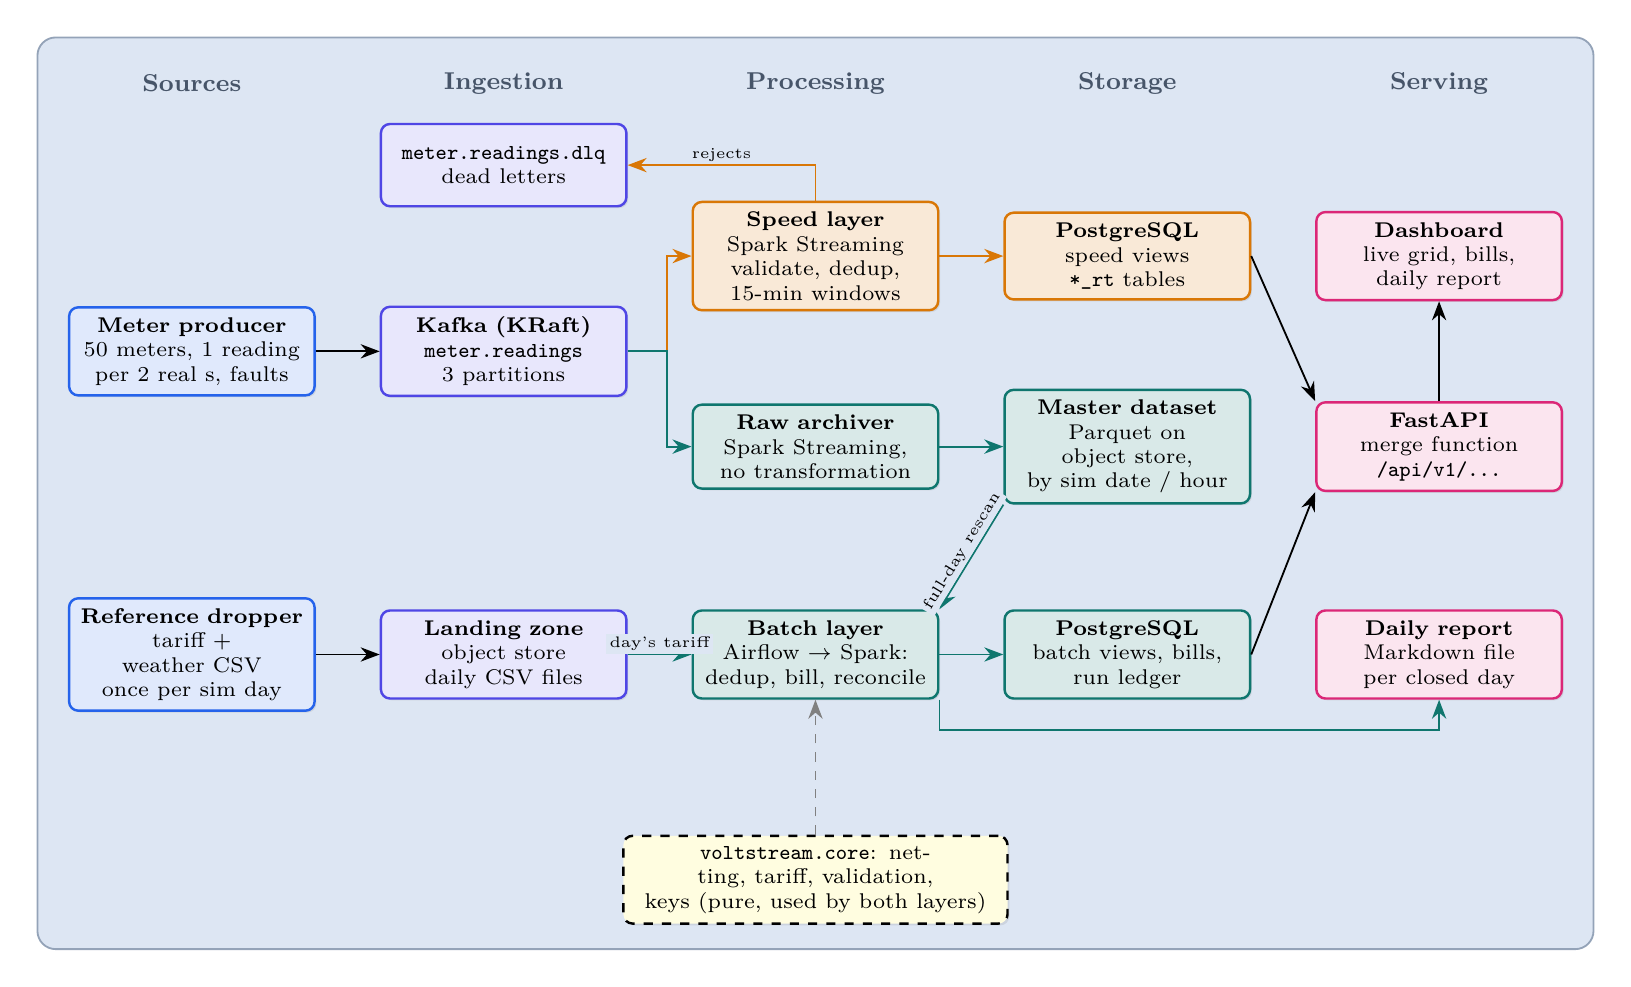
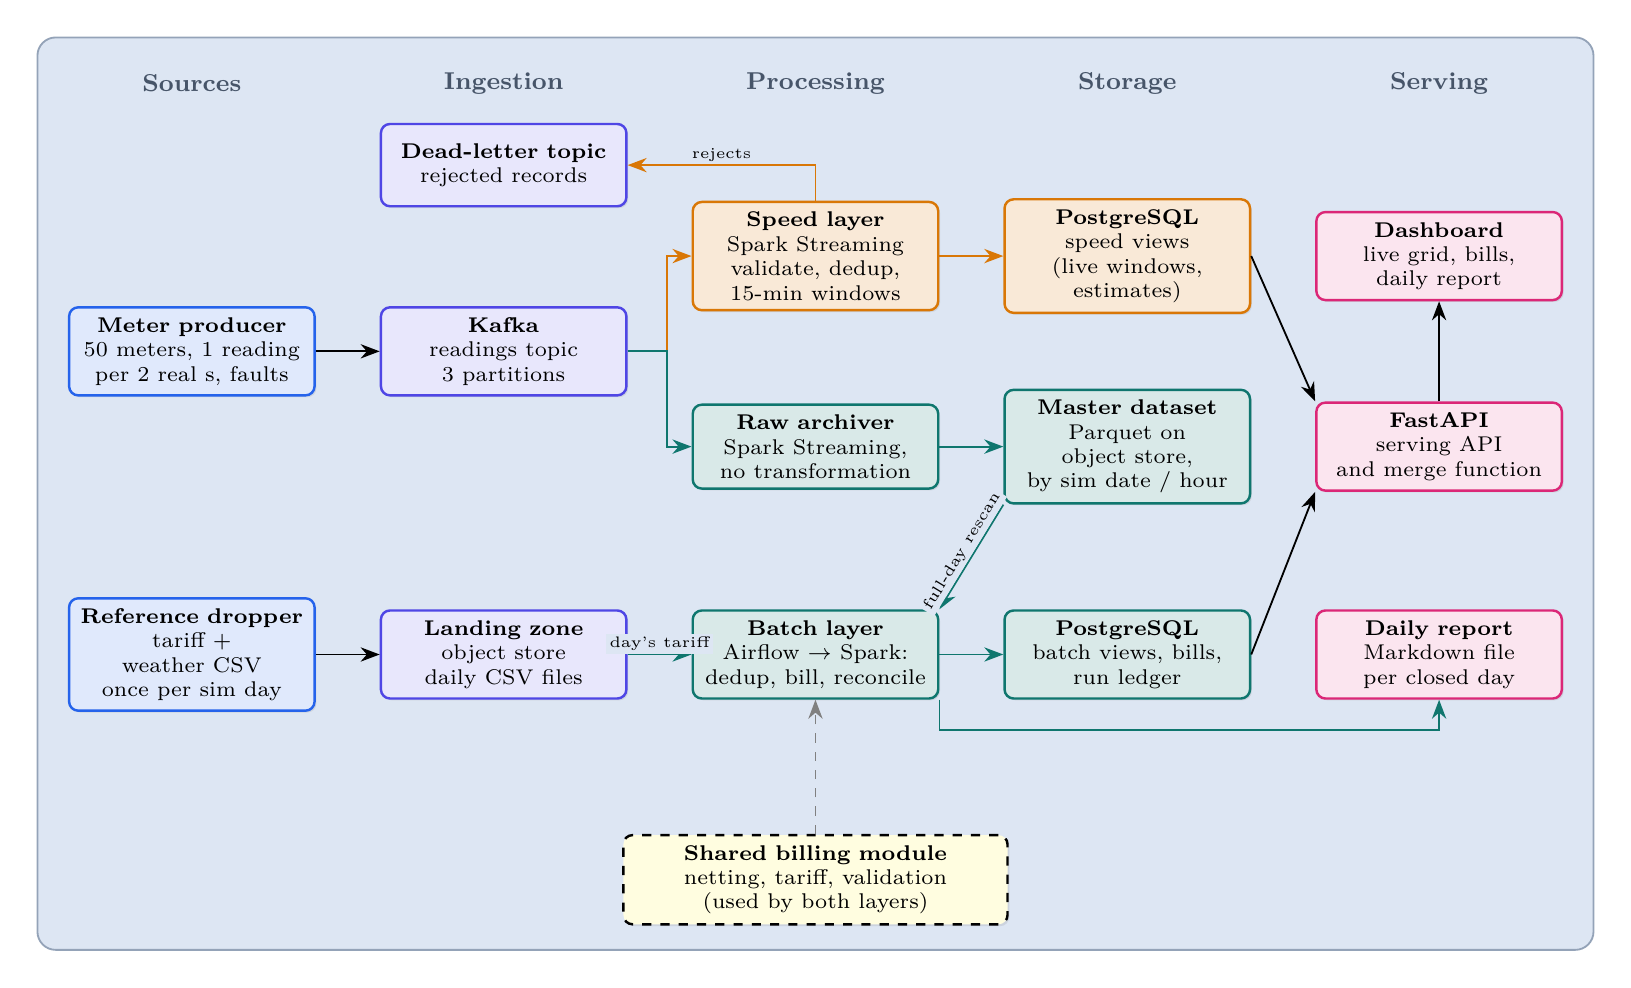
docs: update readme

diff --git a/docs/report/main.tex b/docs/report/main.tex
@@ -238,10 +238,8 @@ Time is compressed so a full day can be demonstrated in a session:
 starts at 2026-01-01 00:00 UTC when the stack starts, so day 1 is partial and 2026-01-02
 is the first complete day. Each of 50 meters in 5 zones emits every 2 real seconds, 150
 readings per simulated day, about 7{,}500 events per day in total. All windowing uses
-simulated time; only latency metrics use the wall clock. A single module,
-\texttt{simclock.py}, does the conversion, and every duration in
-\texttt{config/base.yaml} carries a \texttt{\_sim\_minutes} or \texttt{\_real\_seconds}
-suffix, so it is always clear which one is meant.
+simulated time; only latency metrics use the wall clock. A single clock module does the conversion, and every duration in the configuration file
+is labelled as simulated or real, so it is always clear which one is meant.
 
 % =====================================================================
 \section{Architecture Decision: Lambda versus Kappa}
@@ -306,10 +304,10 @@ than a bounded nightly job.
 codepaths and can silently diverge; for example, a speed layer ending the first tariff
 block at 60\,kWh and a batch layer ending it at 61\,kWh would give different bills near
 the boundary. To avoid this, all netting, tariff, rounding, key and
-validation logic lives in one pure module, \texttt{voltstream/core/} (no I/O, 100\% test
-coverage enforced in CI), imported by both jobs. The logic exists twice only where it must,
-as scalar \texttt{Decimal} functions for the API and as Spark \texttt{Column} expressions for
-the Spark jobs, and \texttt{tests/consistency/test\_pure\_vs\_spark.py} runs both on 5{,}000
+validation logic lives in one shared module with no I/O (100\% test coverage enforced in CI), used by
+both jobs. The logic exists twice only where it must,
+as plain Python functions for the API and as Spark expressions for the Spark jobs, and a
+consistency test runs both on 5{,}000
 random inputs plus sweeps of every block boundary and asserts identical output to the cent.
 Divergence in logic is therefore a failing test; divergence in inputs (a stale tariff,
 dropped late readings) is intended and is measured at run time
@@ -335,24 +333,24 @@ Kappa's single codebase becomes the better trade.
   \node[srcbox] (prod) at (0,2.3) {\textbf{Meter producer}\\50 meters, 1 reading\\per 2 real s, faults};
   \node[srcbox] (drop) at (0,-1.2) {\textbf{Reference dropper}\\tariff + weather CSV\\once per sim day};
 
-  \node[ingbox] (dlq) at (3.6,4.45) {\texttt{meter.readings.dlq}\\dead letters};
-  \node[ingbox] (kafka) at (3.6,2.3) {\textbf{Kafka (KRaft)}\\\texttt{meter.readings}\\3 partitions};
+  \node[ingbox] (dlq) at (3.6,4.45) {\textbf{Dead-letter topic}\\rejected records};
+  \node[ingbox] (kafka) at (3.6,2.3) {\textbf{Kafka}\\readings topic\\3 partitions};
   \node[ingbox] (land) at (3.6,-1.2) {\textbf{Landing zone}\\object store\\daily CSV files};
 
   \node[sbox] (speed) at (7.2,3.4) {\textbf{Speed layer}\\Spark Streaming\\validate, dedup,\\15-min windows};
   \node[bbox] (arch) at (7.2,1.2) {\textbf{Raw archiver}\\Spark Streaming,\\no transformation};
   \node[bbox] (batch) at (7.2,-1.2) {\textbf{Batch layer}\\Airflow $\rightarrow$ Spark:\\dedup, bill, reconcile};
 
-  \node[sbox] (pgs) at (10.8,3.4) {\textbf{PostgreSQL}\\speed views\\\texttt{*\_rt} tables};
+  \node[sbox] (pgs) at (10.8,3.4) {\textbf{PostgreSQL}\\speed views\\(live windows, estimates)};
   \node[bbox] (master) at (10.8,1.2) {\textbf{Master dataset}\\Parquet on\\object store,\\by sim date / hour};
   \node[bbox] (pgb) at (10.8,-1.2) {\textbf{PostgreSQL}\\batch views, bills,\\run ledger};
 
   \node[servbox] (dash) at (14.4,3.4) {\textbf{Dashboard}\\live grid, bills,\\daily report};
-  \node[servbox] (api) at (14.4,1.2) {\textbf{FastAPI}\\merge function\\\texttt{/api/v1/\dots}};
+  \node[servbox] (api) at (14.4,1.2) {\textbf{FastAPI}\\serving API\\and merge function};
   \node[servbox] (rep) at (14.4,-1.2) {\textbf{Daily report}\\Markdown file\\per closed day};
 
   \node[box, dashed, text width=4.2cm, fill=yellow!12] (core) at (7.2,-3.8)
-      {\texttt{voltstream.core}: netting, tariff, validation,\\keys (pure, used by both layers)};
+      {\textbf{Shared billing module}\\netting, tariff, validation\\(used by both layers)};
 
   \draw[arr] (prod) -- (kafka);
   \draw[arr] (drop) -- (land);
@@ -373,7 +371,7 @@ Kappa's single codebase becomes the better trade.
 \caption{End-to-end architecture across ingestion, processing, storage and serving.
 Amber is the speed path (process, then store); teal is the batch path (store, then
 process). Both consume the same Kafka topic independently, each with its own checkpointed
-offsets. The dashed \texttt{core} module is imported by both processing layers.}
+offsets. The dashed shared billing module is used by both processing layers.}
 \label{fig:lambda}
 \end{figure}
 
@@ -397,13 +395,13 @@ and which day's tariff priced it.
 \begin{figure}[H]
 \centering
 \begin{tikzpicture}[node distance=0.5cm and 0.9cm]
-  \node[servbox, text width=3.0cm] (req) {\texttt{GET /households/\{id\}/bill}\\\texttt{?date=D}};
+  \node[servbox, text width=3.0cm] (req) {\textbf{Bill request}\\household, day $D$};
   \node[draw, diamond, fill=yellow!15, line width=0.8pt, aspect=2.4, align=center, font=\scriptsize, inner sep=1pt, right=of req] (dec)
-       {successful run for\\$D$ in \texttt{pipeline\_runs}?};
+       {is day $D$\\billed? (run ledger)};
   \node[bbox, text width=3.6cm, above right=0.1cm and 1.0cm of dec] (b)
-       {\texttt{household\_bill\_daily}\\\texttt{source="batch"}, \texttt{provisional=false}\\tariff of day $D$};
+       {\textbf{Final bill}\\from the batch layer\\priced with day $D$'s tariff};
   \node[sbox, text width=3.6cm, below right=0.1cm and 1.0cm of dec] (s)
-       {\texttt{household\_running\_rt}\\\texttt{source="speed"}, \texttt{provisional=true}\\tariff of day $D-1$};
+       {\textbf{Provisional estimate}\\from the speed layer\\priced with day $D{-}1$'s tariff};
   \draw[arr] (req) -- (dec);
   \draw[barr] (dec.north) |- node[lbl, pos=0.3, left]{yes} (b.west);
   \draw[sarr] (dec.south) |- node[lbl, pos=0.3, left]{no} (s.west);
@@ -415,7 +413,7 @@ and the two labelled return paths.}
 
 \paragraph{Key transformations.} All windowing uses \textbf{event time} with a watermark,
 because readings arrive out of order and arrival-time windows would put them in the wrong
-window. \textbf{Solar netting} (\texttt{core/netting.py}) runs before tariff evaluation:
+window. \textbf{Solar netting} runs before tariff evaluation:
 \begin{equation*}
   \mathit{self} = \min(\mathit{solar}, \mathit{consumption}),\quad
   \mathit{import} = \mathit{consumption} - \mathit{self},\quad
@@ -425,7 +423,7 @@ and $\mathit{total} = \mathit{energy\_charge} + \mathit{fixed\_charge} -
 \mathit{subsidy} - \mathit{export\_credit}$, where the energy charge prices the import block
 by block and money is rounded half-up to 2 decimals identically in both layers. Kafka is
 at-least-once, so both layers \textbf{deduplicate} on $(\mathit{meter\_id},
-\mathit{event\_ts})$, defined once in \texttt{core/keys.py}. The Kafka message key is
+\mathit{event\_ts})$, defined once in the shared module. The Kafka message key is
 \texttt{household\_id}, which keeps each household's readings ordered within a partition.
 
 % =====================================================================
@@ -598,11 +596,10 @@ two steps, so a crash between them re-reads a small range. We measured 334 dupli
 of 14{,}012 rows after a kill, with no missing events; batch deduplication removes them.
 
 \paragraph{Speed layer.} A second, independent Spark stream validates each record with
-\texttt{core/validation.py}, deduplicates, groups readings into 15-simulated-minute
+the shared validation rules, deduplicates, groups readings into 15-simulated-minute
 tumbling windows per zone under a 30-simulated-minute watermark, keeps a running total per
 household, and upserts into PostgreSQL every 10 real seconds using \texttt{foreachBatch} in
-update mode. The provisional bill applies \texttt{core/spark\_expr.py} with yesterday's
-tariff. Two effects of time compression matter here. First, the 10-second trigger equals 48
+update mode. The provisional bill uses the shared billing logic with yesterday's tariff. Two effects of time compression matter here. First, the 10-second trigger equals 48
 \emph{simulated} minutes, longer than the watermark, so the trigger rather than the
 watermark decides which late readings are dropped (measured in
 Section~\ref{sec:res-recon}). Second, in update mode results are emitted every trigger, so
@@ -685,7 +682,7 @@ dashboard.
 
 The code is a typed Python 3.11 package organised by layer (\texttt{simulators},
 \texttt{streaming}, \texttt{batch}, \texttt{storage}, \texttt{api}, shared \texttt{core} and
-\texttt{contracts}). All settings live in \texttt{config/base.yaml}, validated at start-up.
+\texttt{contracts}). All settings live in one configuration file, validated at start-up.
 There are 281 tests (unit, property-based, consistency and integration), \texttt{promtool}
 tests for the alert rules, and a test that fails if alert thresholds or metric names drift
 from the code. GitHub Actions CI runs linting, type checks, the tests with the 100\%
@@ -715,7 +712,7 @@ where it is stuck. Figure~\ref{fig:observability} shows how each stage is instru
   \node[obox, right=3.6cm of arch] (prom) {\textbf{Prometheus}\\scrape 15\,s\\5 alert rules};
   \node[obox, right=of prom] (am) {\textbf{Alertmanager}\\route, group, inhibit};
   \node[obox, above=of am] (graf) {\textbf{Grafana}\\3 dashboards};
-  \node[servbox, below=of am] (hook) {API webhook\\$\rightarrow$ JSON log line\\\texttt{stage: alert}};
+  \node[servbox, below=of am] (hook) {API webhook\\$\rightarrow$ alert\\log line};
 
   \foreach \n in {prod,speed,arch,api} \draw[arr, obsc] (\n.east) -- (prom.west);
   \draw[arr, obsc] (bat.east) -| node[lbl, pos=0.2, above]{push on exit} (pgw.south);
@@ -784,7 +781,7 @@ for requests with an \texttt{X-Trace-Id} header. Any record's path and timing ca
 searching for one ID.
 
 \paragraph{Alerts and health checks.} Five Prometheus rules (Table~\ref{tab:alerts}) are
-stored in the repository, with thresholds checked against \texttt{base.yaml} by a test.
+stored in the repository, with thresholds checked against the configuration by a test.
 Alertmanager routes critical and warning alerts separately, and \texttt{MeterDataStale}
 for a zone suppresses that zone's \texttt{LowRenewableContribution}, since missing data
 explains missing solar. The API also has \texttt{/health/live}, \texttt{/health/ready}
@@ -823,8 +820,7 @@ fires.
 
 For 2026-01-02 (the first complete day) the batch layer read 7{,}029 rows and wrote 50
 bills, and the whole eight-task DAG took 59\,s. Every bill satisfies the total formula. The
-last DAG task writes a Markdown report per day
-(\texttt{reports/report\_2026-01-02.md}) with zone totals (consumption, solar,
+last DAG task writes a Markdown report for each day with zone totals (consumption, solar,
 self-consumed, exported, renewable share), billing totals, rejected records by reason, the
 speed-vs-batch divergence and the run ledger. The same content is served by
 \texttt{/api/v1/reports/daily} and shown in the dashboard's Daily report tab
@@ -1118,7 +1114,7 @@ Prometheus Authors, \emph{Prometheus Documentation}. \url{https://prometheus.io/
 \centering
 \begin{minipage}[t]{0.47\textwidth}
 \centering
-\captionof{table}{Synthetic tariff (defaults in \texttt{base.yaml}).}
+\captionof{table}{Synthetic tariff (configuration defaults).}
 \label{tab:tariffvals}
 \small
 \begin{tabularx}{\linewidth}{L{2.6cm} X}
